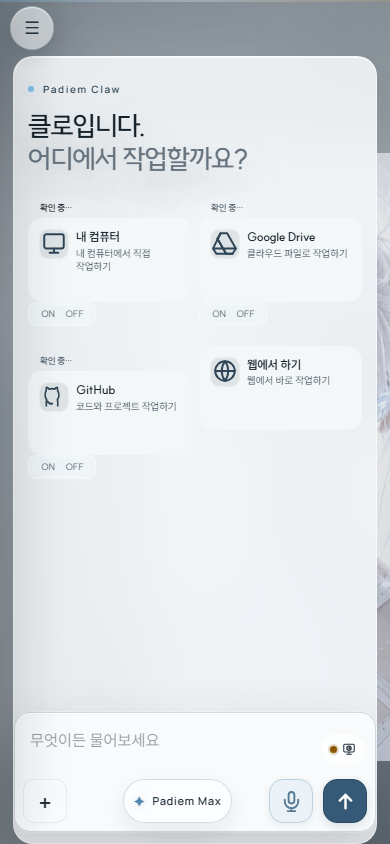
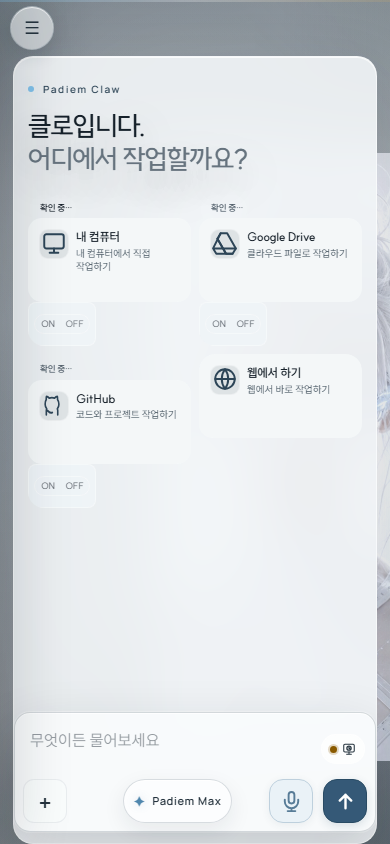
fix(connector): 390 Claw ON/OFF 44px 터치 — 같은 컴포넌트 파일에 390 조건만 추가

diff --git a/apps/padiem-chat/static/claw-focus-layout.css b/apps/padiem-chat/static/claw-focus-layout.css
@@ -1163,3 +1163,15 @@ html[data-theme="padiem-glass"] .app-shell[data-state="claw"] #clawAutomation :i
     );
   }
 }
+
+/* Connector unification: at phone widths the Claw switch is a tappable row
+ * inside the tile, not the 24px corner pill. Same selector as the rule above,
+ * declared later in this file so it wins without any !important. */
+@media (max-width: 720px) {
+  .app-shell[data-state="claw"] .claw-workspace[data-view="general"] ~ .conversation .claw-home-card > .claw-connection-toggle {
+    min-height: 44px !important;
+    height: 44px !important;
+    min-width: 72px;
+    box-sizing: border-box;
+  }
+}

diff --git a/apps/padiem-chat/static/connector-pages.css b/apps/padiem-chat/static/connector-pages.css
@@ -338,11 +338,7 @@
     bottom: auto !important;
     order: 3;
     align-self: flex-start;
-    min-height: 44px !important;
-    height: 44px !important;
-    min-width: 72px;
     width: auto !important;
-    box-sizing: border-box !important;
     padding: 4px 10px !important;
     margin: 4px 12px 12px;
     box-sizing: border-box;
